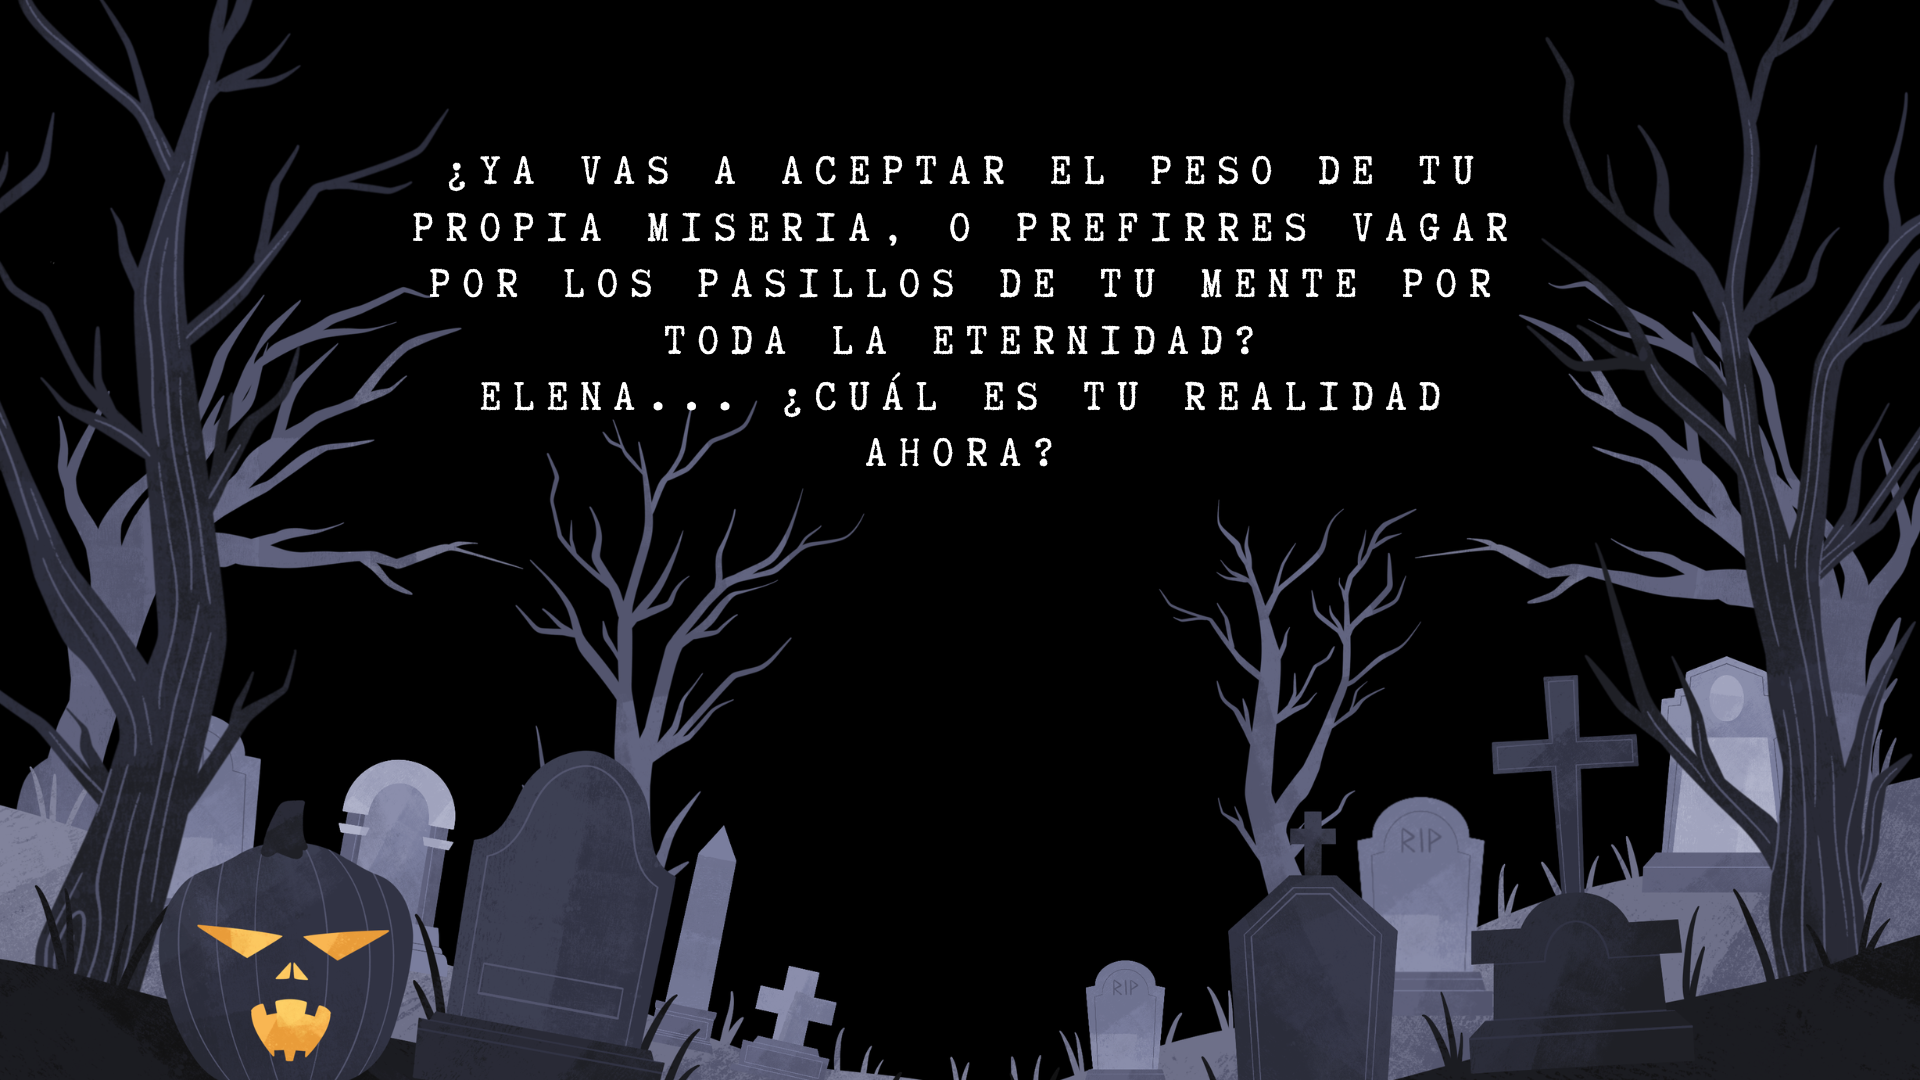
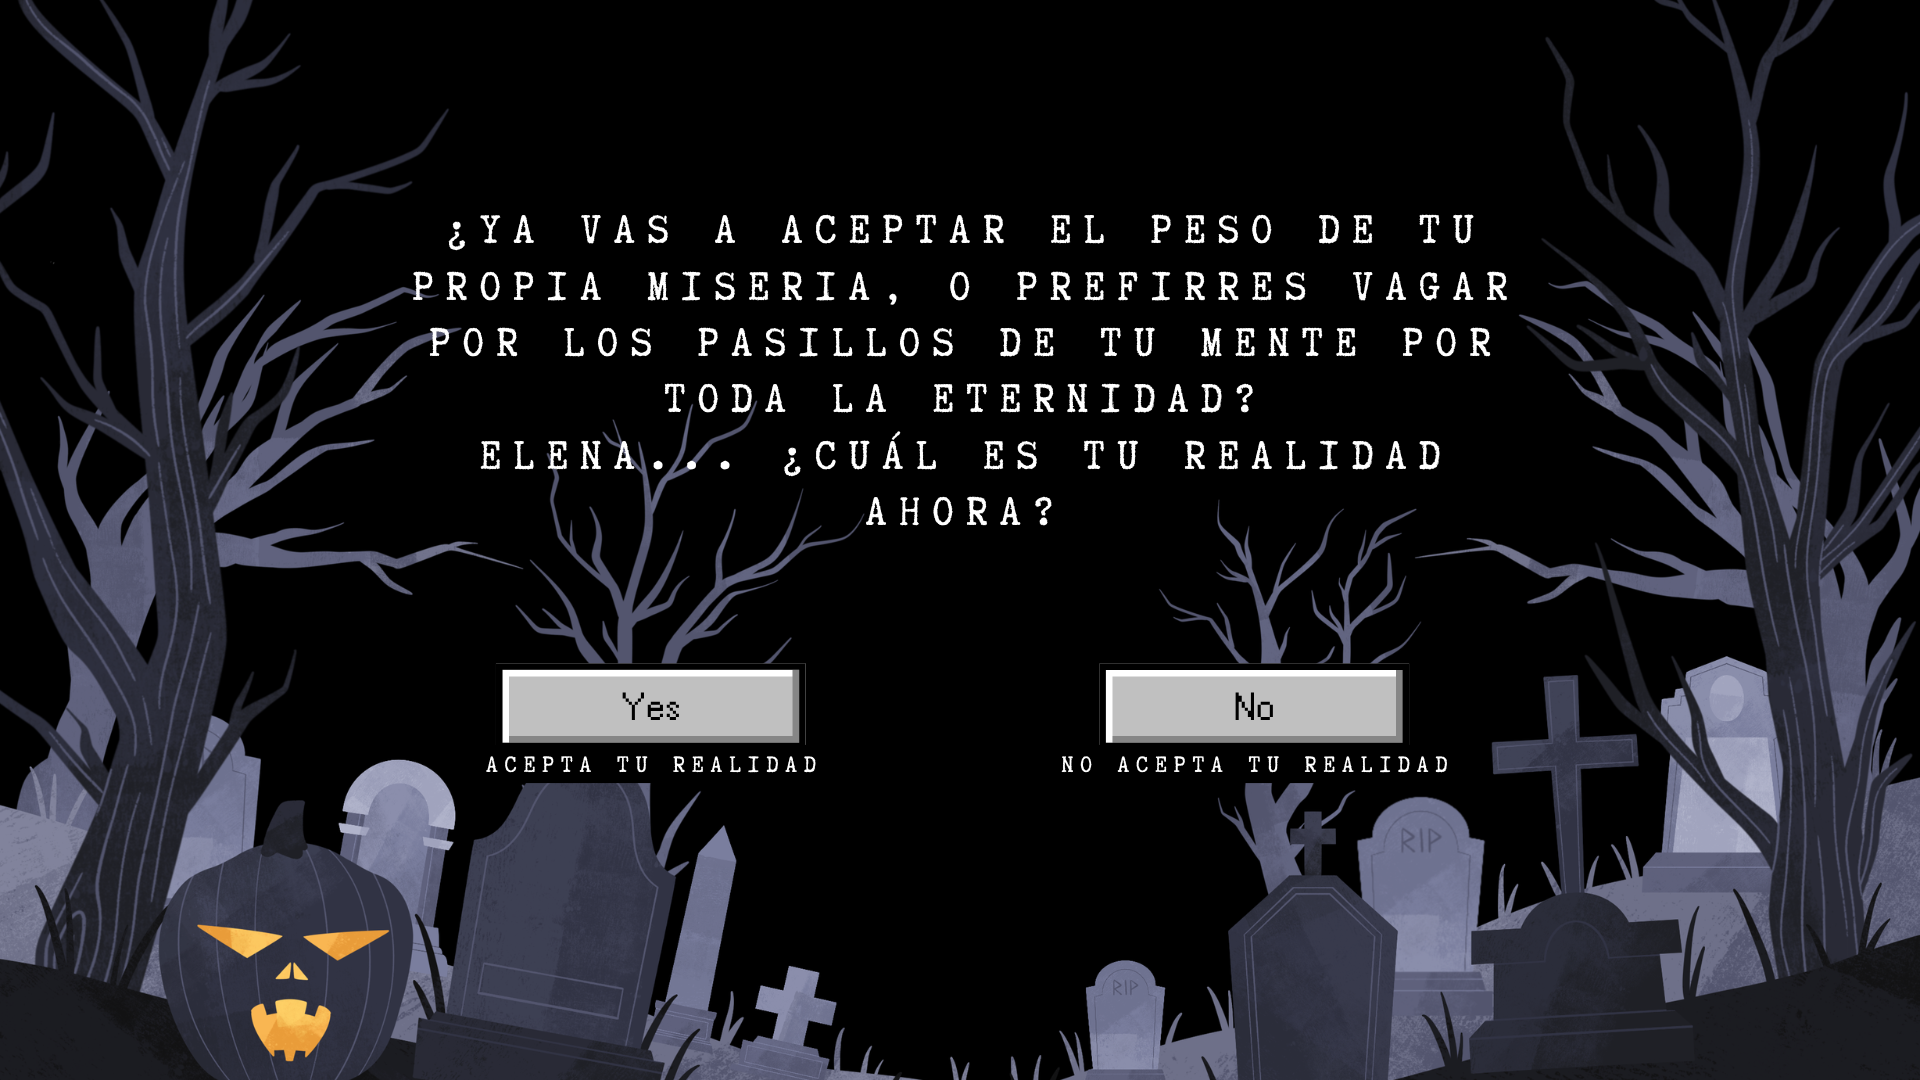
Versión 1.0 del Proyecto Final

Changed region(s): [[0.2188, 0.1222, 0.7812, 0.4889], [0.5625, 0.6111, 0.75, 0.7333], [0.25, 0.6111, 0.4375, 0.7333]]

diff --git a/ProyectoBimestral/main_warehouse.cpp b/ProyectoBimestral/main_warehouse.cpp
@@ -426,6 +426,11 @@ namespace Warehouse {
     static const float RED_LIGHT_OFF_DURATION_MAX = 18.0f; // cuanto dura el apagon (max)
     static std::vector<bool> g_redLightWasOff;
 
+    enum ExitPhase { EXIT_NONE, EXIT_WAIT_BLACK, EXIT_FADE_IN, EXIT_SHOW, EXIT_FADE_OUT };
+    static ExitPhase exitPhase = EXIT_NONE;
+    static float exitTimer = 0.0f;
+    static const std::string MATT_MESSAGE_IMAGE_PATH = "./model/Warehouse/abandoned_warehouse_-_interior_scene/message_matt.jpeg";
+
     // Pseudo-random determinista basado en un valor (para el parpadeo de la linterna)
     float PseudoRandom01(float seed)
     {
@@ -841,6 +846,8 @@ namespace Warehouse {
         g_nextPresenceSoundTime = -1.0f;
         g_pursuerLungeTimer = 0.0f;
         g_pursuerRetreatUntil = -1000.0f;
+        exitPhase = EXIT_NONE;
+        exitTimer = 0.0f;
 
         int width, height;
         glfwGetFramebufferSize(window, &width, &height);
@@ -884,6 +891,7 @@ namespace Warehouse {
         // -------------------- Jumpscare: shader, textura e imagen a pantalla completa --------------------
         Shader jumpscareShader("shaders/jumpscare.vs", "shaders/jumpscare.fs");
         unsigned int jumpscareTex = LoadTexture2D(JUMPSCARE_IMAGE_PATH);
+        unsigned int mattMessageTex = LoadTexture2D(MATT_MESSAGE_IMAGE_PATH);
 
         float jumpscareQuad[] = {
             // pos          // uv
@@ -1363,6 +1371,74 @@ namespace Warehouse {
             if (deltaTime > 0.1f) deltaTime = 0.1f;
 
             processInput(window);
+
+            // Si estamos en la secuencia de salida, saltamos la lógica y renderizado normal 3D
+            if (exitPhase != EXIT_NONE)
+            {
+                glClearColor(0.0f, 0.0f, 0.0f, 1.0f);
+                glClear(GL_COLOR_BUFFER_BIT | GL_DEPTH_BUFFER_BIT);
+
+                glDisable(GL_DEPTH_TEST);
+                jumpscareShader.use();
+                jumpscareShader.setInt("jumpscareTex", 0);
+
+                float fadeValue = 0.0f;
+                float fadeDuration = 2.5f;
+
+                if (exitPhase == EXIT_WAIT_BLACK)
+                {
+                    if (currentFrame - exitTimer >= 2.0f) { // 2 Segundos en negro
+                        exitPhase = EXIT_FADE_IN;
+                        exitTimer = currentFrame;
+                    }
+                }
+                else if (exitPhase == EXIT_FADE_IN)
+                {
+                    float progress = (currentFrame - exitTimer) / fadeDuration;
+                    fadeValue = glm::clamp(progress, 0.0f, 1.0f);
+                    if (progress >= 1.0f) {
+                        exitPhase = EXIT_SHOW;
+                        exitTimer = currentFrame;
+                    }
+                }
+                else if (exitPhase == EXIT_SHOW)
+                {
+                    fadeValue = 1.0f;
+                    if (currentFrame - exitTimer >= 10.0f) { // Mostrar 10 segundos
+                        exitPhase = EXIT_FADE_OUT;
+                        exitTimer = currentFrame;
+                    }
+                }
+                else if (exitPhase == EXIT_FADE_OUT)
+                {
+                    float progress = (currentFrame - exitTimer) / fadeDuration;
+                    fadeValue = 1.0f - glm::clamp(progress, 0.0f, 1.0f);
+                    if (progress >= 1.0f) {
+                        if (g_UnlockedLevel < 4) {
+                            g_UnlockedLevel = 4;
+                        }
+                        g_NextScene = SCENE_PASILLO; // Regresar al Pasillo
+                    }
+                }
+
+                glEnable(GL_BLEND);
+                glBlendFunc(GL_SRC_ALPHA, GL_ONE_MINUS_SRC_ALPHA);
+
+                jumpscareShader.setFloat("alpha", fadeValue);
+                jumpscareShader.setFloat("blackOverride", 0.0f);
+                glActiveTexture(GL_TEXTURE0);
+                glBindTexture(GL_TEXTURE_2D, mattMessageTex);
+
+                glBindVertexArray(jumpscareVAO);
+                glDrawArrays(GL_TRIANGLES, 0, 6);
+                glBindVertexArray(0);
+
+                glDisable(GL_BLEND);
+
+                glfwSwapBuffers(window);
+                glfwPollEvents();
+                continue; // Saltar el resto del bucle normal de renderizado
+            }
 
             // Reseteo del estado activo del jumpscare cuando termina su ventana de efecto
             if (g_jumpscareActive && currentFrame >= g_jumpscareActiveEndTime)
@@ -1940,6 +2016,7 @@ namespace Warehouse {
         glDeleteVertexArrays(1, &jumpscareVAO);
         glDeleteBuffers(1, &jumpscareVBO);
         glDeleteTextures(1, &jumpscareTex);
+        glDeleteTextures(1, &mattMessageTex);
     }
 
     void processInput(GLFWwindow* window)
@@ -1947,13 +2024,21 @@ namespace Warehouse {
         if (glfwGetKey(window, GLFW_KEY_ESCAPE) == GLFW_PRESS)
             glfwSetWindowShouldClose(window, true);
 
+        // --- BLOQUEO DE CONTROLES SI SE ESTÁ MOSTRANDO LA SALIDA CINEMÁTICA ---
+        if (exitPhase != EXIT_NONE) {
+            return;
+        }
+
         // Volver al Pasillo
         if (glfwGetKey(window, GLFW_KEY_H) == GLFW_PRESS)
         {
-            if (g_UnlockedLevel < 4) {
-                g_UnlockedLevel = 4;
+            if (exitPhase == EXIT_NONE) {
+                exitPhase = EXIT_WAIT_BLACK;
+                exitTimer = static_cast<float>(glfwGetTime());
+                haltmusic();
+                haltsound();
             }
-            g_NextScene = SCENE_PASILLO;
+            return;
         }
 
         static bool f1WasPressed = false;
@@ -2007,11 +2092,15 @@ namespace Warehouse {
         lastX = xpos;
         lastY = ypos;
 
-        camera.ProcessMouseMovement(xoffset, yoffset);
+        if (!g_jumpscareActive && exitPhase == EXIT_NONE) {
+            camera.ProcessMouseMovement(xoffset, yoffset);
+        }
     }
 
     void scroll_callback(GLFWwindow* window, double xoffset, double yoffset)
     {
-        camera.ProcessMouseScroll(static_cast<float>(yoffset));
+        if (exitPhase == EXIT_NONE) {
+            camera.ProcessMouseScroll(static_cast<float>(yoffset));
+        }
     }
 }

diff --git a/ProyectoBimestral/Scene_Pasillo.cpp b/ProyectoBimestral/Scene_Pasillo.cpp
@@ -28,7 +28,10 @@ namespace Pasillo {
         END_WAIT_1S,        // Espera de 1 segundo en el pasillo antes de mostrar ending_choose
         END_FADE_IN_2,      // Aparece lentamente la imagen de ending_choose
         END_WAIT_CHOICE,    // Muestra ending_choose esperando Y/N
-        END_ACCEPTED,       // Si elige Y (Acepta destino) -> Reproduce video y cierra
+        END_ACCEPTED_WAIT_BLACK, // Espera de 2 segundos en negro antes del fade-in
+        END_ACCEPTED_FADE_IN,    // Se desvanece a la imagen de gamebucle
+        END_ACCEPTED_SHOW,       // Muestra la imagen de gamebucle por 10 segundos
+        END_ACCEPTED_FADE_OUT,   // Se desvanece la imagen a negro y luego cierra el programa
         END_REJECTED        // Si elige N (No acepta) -> Muestra gamebucle y espera ENTER
     };
     static HallwayEndingState hallwayEndingState = END_NONE;
@@ -151,7 +154,7 @@ namespace Pasillo {
         if (hallwayEndingState != END_NONE) {
             if (hallwayEndingState == END_WAIT_CHOICE) {
                 if (glfwGetKey(window, GLFW_KEY_Y) == GLFW_PRESS) {
-                    hallwayEndingState = END_ACCEPTED;
+                    hallwayEndingState = END_ACCEPTED_WAIT_BLACK;
                     hallwayEndingTimer = static_cast<float>(glfwGetTime());
                 }
                 else if (glfwGetKey(window, GLFW_KEY_N) == GLFW_PRESS) {
@@ -166,6 +169,7 @@ namespace Pasillo {
                     firstMouse = true;
                     hallwayEndingState = END_NONE;
                     introPhase = INTRO_DONE;
+                    g_UnlockedLevel = 1; // Volver a bloquear las escenas como al inicio
                 }
             }
             return;
@@ -302,6 +306,7 @@ namespace Pasillo {
         unsigned int introTexture2 = loadTexture("./model/pasillo/intro_message_2.png");
         unsigned int endingChooseTexture = loadTexture("./model/exit/ending_choose.png");
         unsigned int gamebucleTexture = loadTexture("./model/exit/gamebucle.png");
+        unsigned int gameoverTexture = loadTexture("./model/exit/gameover.png");
 
         float quadVertices[] = {
             // Posiciones   // Texturas
@@ -377,12 +382,12 @@ namespace Pasillo {
                 glBindVertexArray(quadVAO);
 
                 float fadeValue = 0.0f;
-                float fadeDuration = 2.0f;
+                float fadeDuration = 2.5f; // Duración igual a la escena de Samy (2.5s)
                 unsigned int activeTex = endingChooseTexture;
 
                 if (hallwayEndingState == END_FADE_IN_2)
                 {
-                    float progress = (currentFrame - hallwayEndingTimer) / fadeDuration;
+                    float progress = (currentFrame - hallwayEndingTimer) / 2.0f; // Mantener duración original para ending_choose (2.0s)
                     fadeValue = glm::clamp(progress, 0.0f, 1.0f);
                     if (progress >= 1.0f) {
                         hallwayEndingState = END_WAIT_CHOICE;
@@ -393,12 +398,42 @@ namespace Pasillo {
                     fadeValue = 1.0f;
                     activeTex = endingChooseTexture;
                 }
-                else if (hallwayEndingState == END_ACCEPTED)
+                else if (hallwayEndingState == END_ACCEPTED_WAIT_BLACK)
                 {
-                    // Acepta su destino -> Reproduce video de gameover y termina
-                    system("start \"\" \"model/exit/gameover.mp4\"");
-                    glfwSetWindowShouldClose(window, true);
                     fadeValue = 0.0f;
+                    activeTex = gameoverTexture;
+                    if (currentFrame - hallwayEndingTimer >= 2.0f) { // 2s en negro igual que Samy
+                        hallwayEndingState = END_ACCEPTED_FADE_IN;
+                        hallwayEndingTimer = currentFrame;
+                    }
+                }
+                else if (hallwayEndingState == END_ACCEPTED_FADE_IN)
+                {
+                    activeTex = gameoverTexture;
+                    float progress = (currentFrame - hallwayEndingTimer) / fadeDuration;
+                    fadeValue = glm::clamp(progress, 0.0f, 1.0f);
+                    if (progress >= 1.0f) {
+                        hallwayEndingState = END_ACCEPTED_SHOW;
+                        hallwayEndingTimer = currentFrame;
+                    }
+                }
+                else if (hallwayEndingState == END_ACCEPTED_SHOW)
+                {
+                    fadeValue = 1.0f;
+                    activeTex = gameoverTexture;
+                    if (currentFrame - hallwayEndingTimer >= 10.0f) { // 10s mostrando la imagen igual que Samy
+                        hallwayEndingState = END_ACCEPTED_FADE_OUT;
+                        hallwayEndingTimer = currentFrame;
+                    }
+                }
+                else if (hallwayEndingState == END_ACCEPTED_FADE_OUT)
+                {
+                    activeTex = gameoverTexture;
+                    float progress = (currentFrame - hallwayEndingTimer) / fadeDuration;
+                    fadeValue = 1.0f - glm::clamp(progress, 0.0f, 1.0f);
+                    if (progress >= 1.0f) {
+                        glfwSetWindowShouldClose(window, true);
+                    }
                 }
                 else if (hallwayEndingState == END_REJECTED)
                 {
@@ -411,24 +446,7 @@ namespace Pasillo {
                 glBindTexture(GL_TEXTURE_2D, activeTex);
                 glDrawArrays(GL_TRIANGLES, 0, 6);
 
-                // Renderizar textos explicativos sobre el quad del final si es necesario
-                float sw = static_cast<float>(SCR_WIDTH);
-                float sh = static_cast<float>(SCR_HEIGHT);
-
-                if (hallwayEndingState == END_WAIT_CHOICE)
-                {
-                    // Opcional: mostrar texto explicativo de teclas (para interactuar)
-                    std::string promptText = "Presiona [Y] para ACEPTAR TU DESTINO  /  [N] para NO ACEPTAR";
-                    float wp = GetTextWidth(promptText, 0.4f);
-                    RenderText(textShader, promptText, (sw - wp) / 2.0f, 50.0f, 0.4f, glm::vec3(0.8f, 0.8f, 0.8f), sw, sh);
-                }
-                else if (hallwayEndingState == END_REJECTED)
-                {
-                    // Explicar cómo reiniciar el bucle
-                    std::string promptText = "Presiona ENTER para reiniciar el bucle de recuerdos";
-                    float wp = GetTextWidth(promptText, 0.4f);
-                    RenderText(textShader, promptText, (sw - wp) / 2.0f, 50.0f, 0.4f, glm::vec3(0.8f, 0.8f, 0.8f), sw, sh);
-                }
+                // No programmatic text rendered over the ending screens
 
                 glfwSwapBuffers(window);
                 glfwPollEvents();